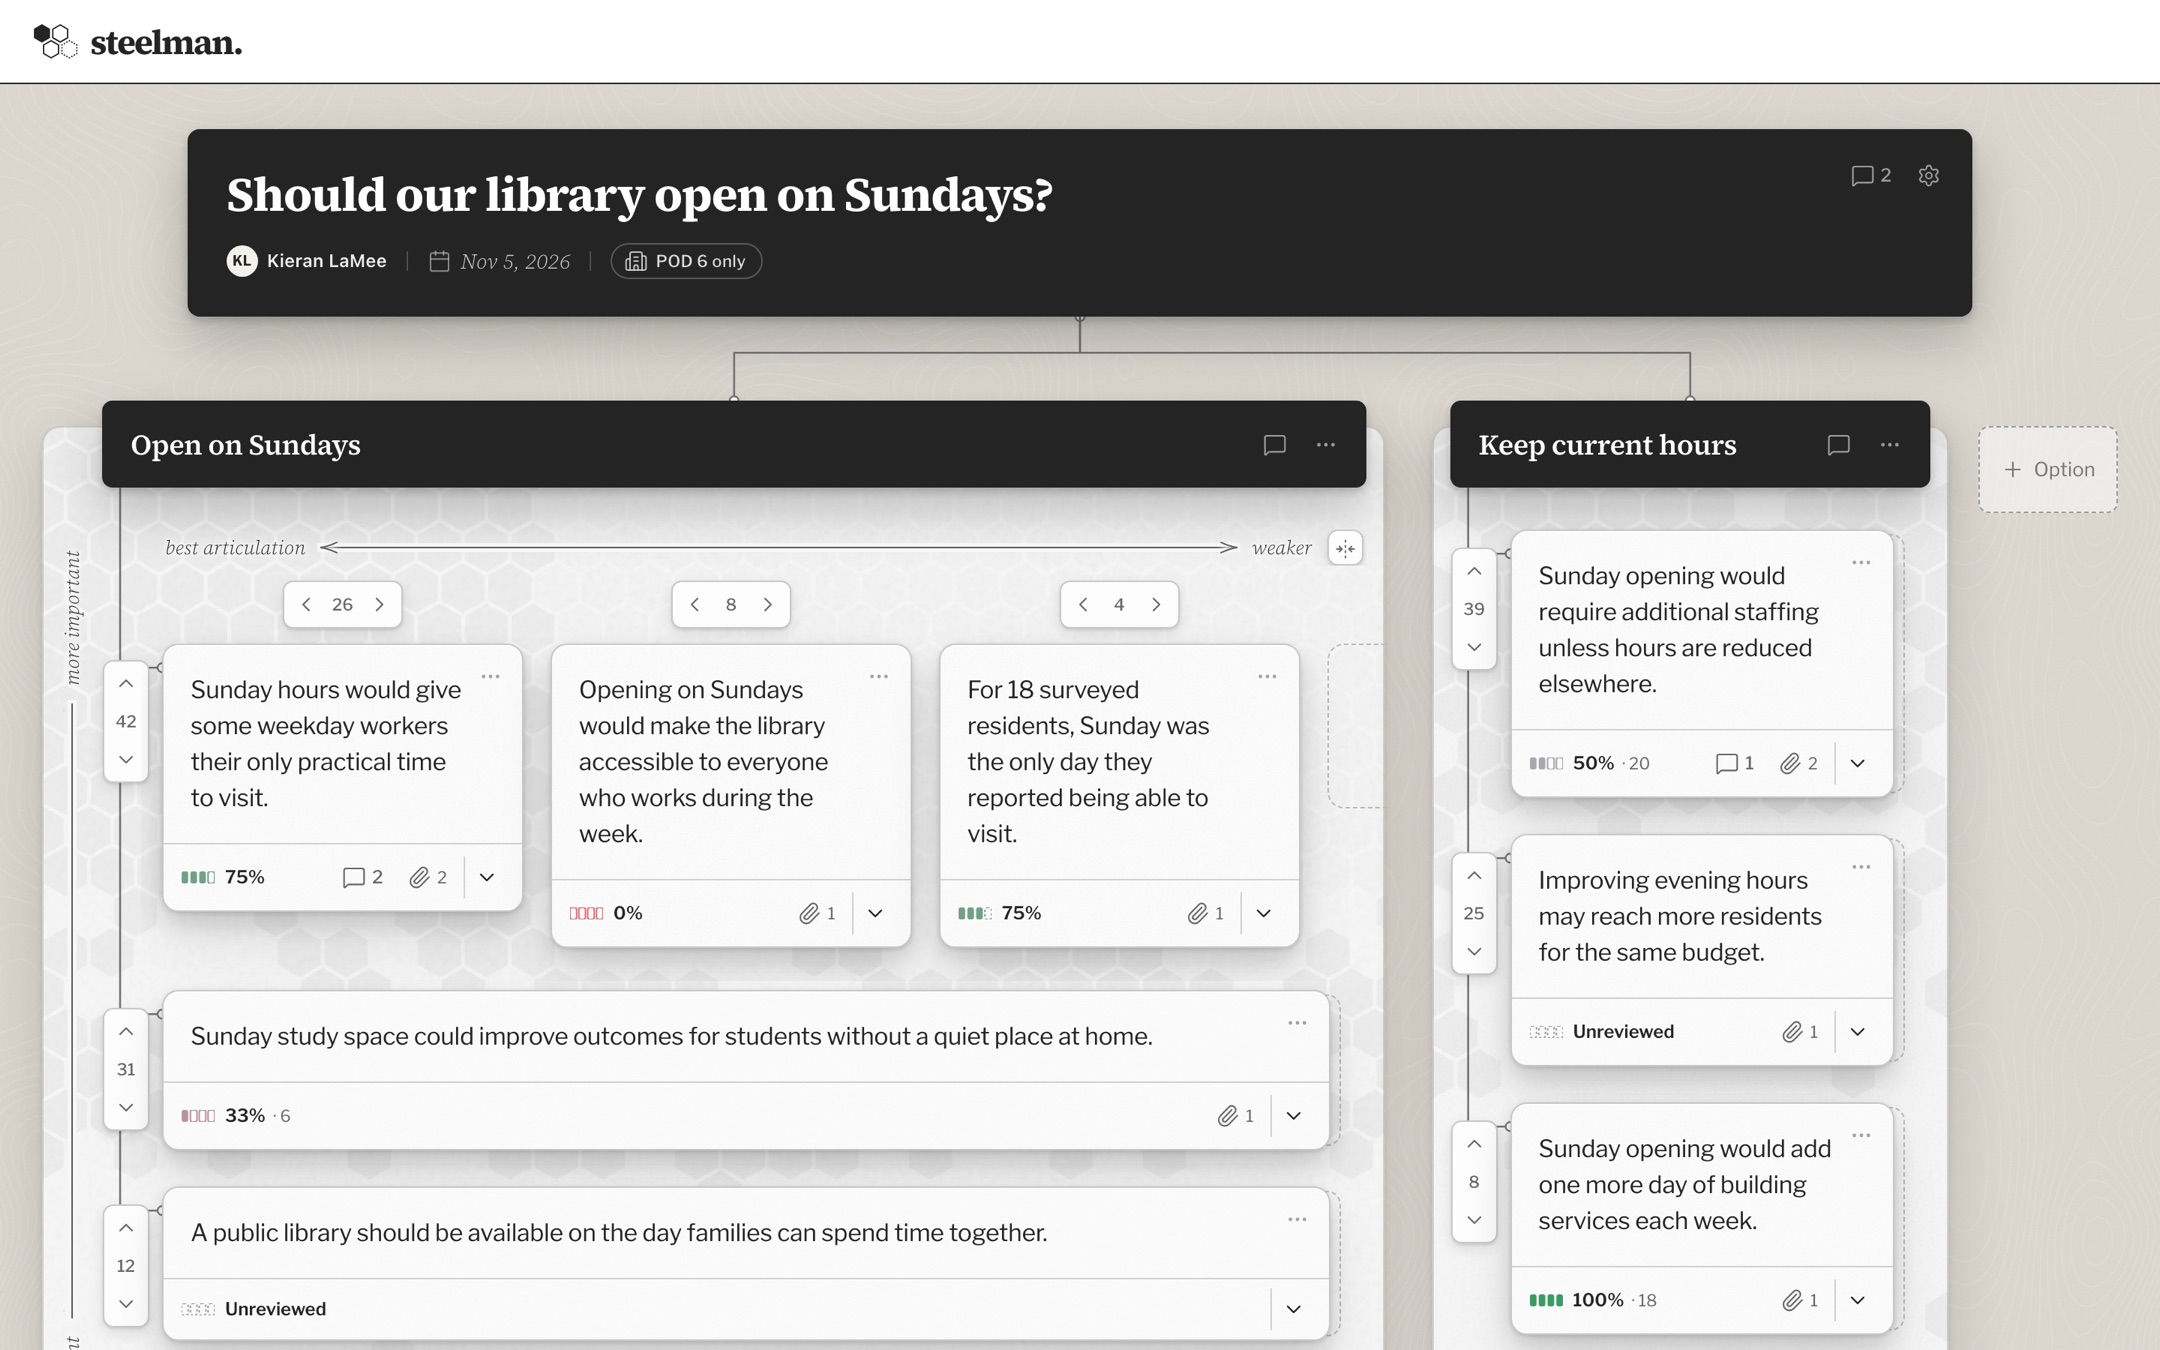
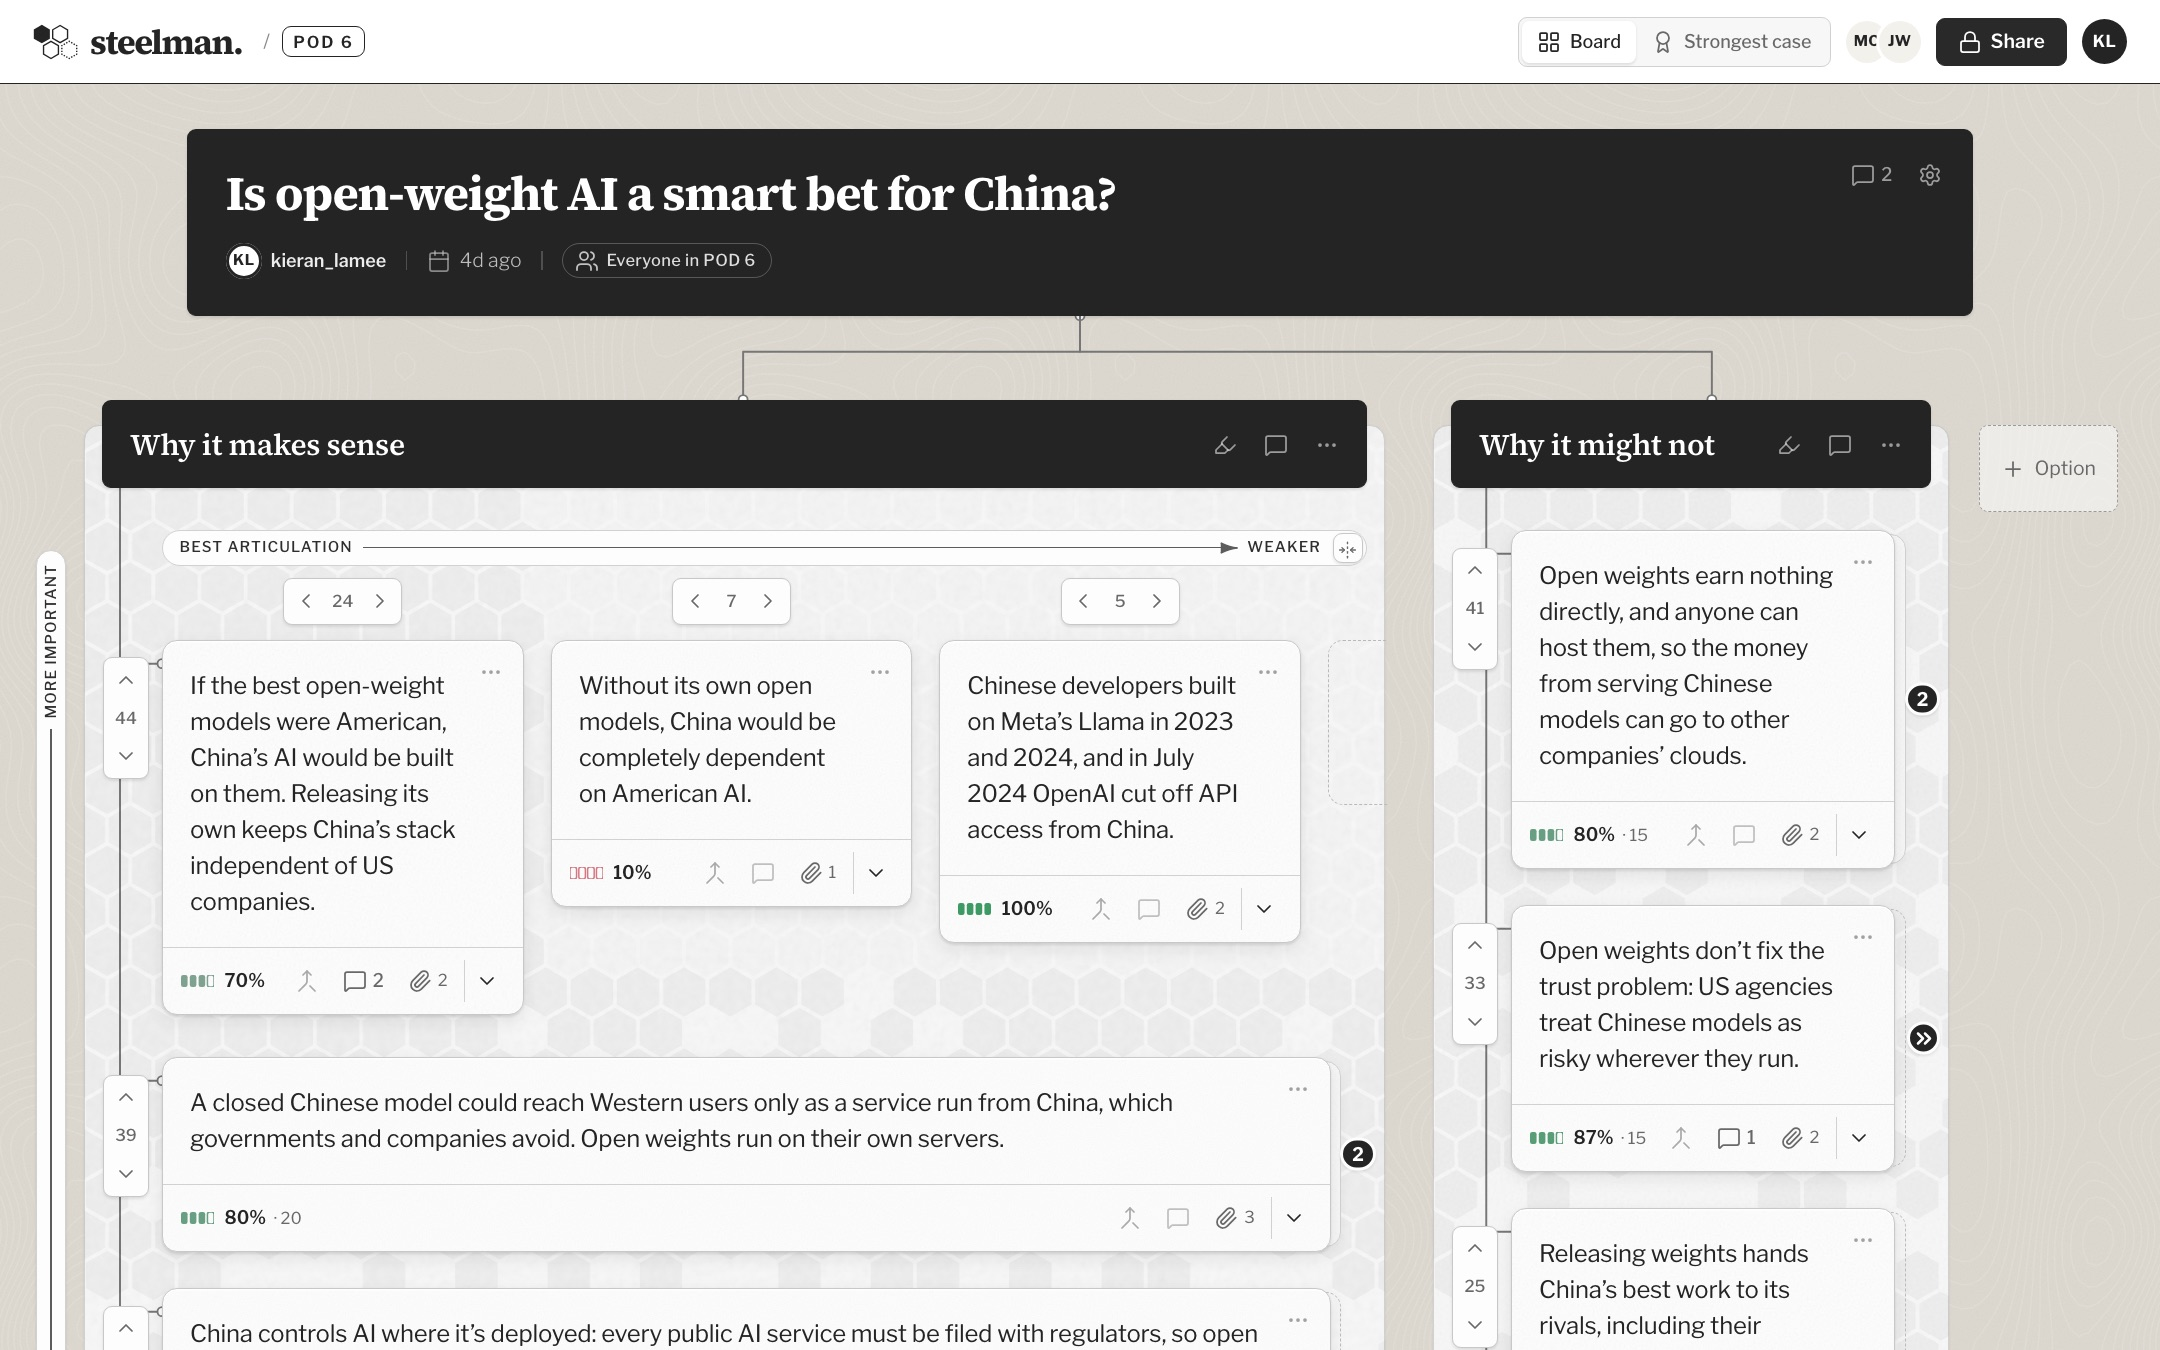
Refresh specimen and Product Page screenshot for the open-weights example
- Design specimen: type samples, version-count samples, AI-contribution study,
  and the board study now use the open-weights question and claims.
- Product Page: new prototype-board.jpg (2160 x 1350) showing the
  open-weights board with its first argument unfolded; updated alt text.

diff --git a/docs/design/index.html b/docs/design/index.html
@@ -100,9 +100,9 @@
 
       <section class="spec" aria-labelledby="type-title">
         <div class="spec-head"><h2 id="type-title">Type</h2><span>Source Serif 4 · Libre Franklin</span></div>
-        <div class="type-sample"><span class="label">Question · serif 700</span><span style="font:700 32px/1.16 var(--sm-serif); letter-spacing:-.8px">Should our library open on Sundays?</span></div>
-        <div class="type-sample"><span class="label">Option · sans 600</span><span style="font-size:17px; font-weight:600; letter-spacing:-.3px">Open on Sundays</span></div>
-        <div class="type-sample"><span class="label">Claim · sans 400</span><span class="sm-claim">Sunday hours would give some weekday workers their only practical time to visit.</span></div>
+        <div class="type-sample"><span class="label">Question · serif 700</span><span style="font:700 32px/1.16 var(--sm-serif); letter-spacing:-.8px">Is open-weight AI a smart bet for China?</span></div>
+        <div class="type-sample"><span class="label">Option · sans 600</span><span style="font-size:17px; font-weight:600; letter-spacing:-.3px">Why it makes sense</span></div>
+        <div class="type-sample"><span class="label">Claim · sans 400</span><span class="sm-claim">If the best open-weight models were American, China’s AI would be built on them. Releasing its own keeps China’s stack independent of US companies.</span></div>
         <div class="type-sample"><span class="label">Axis · serif 300 italic</span><span class="sm-axis" style="justify-content:flex-start"><span class="sm-axis-label">best articulation</span></span></div>
         <div class="type-sample"><span class="label">Meta · sans 11</span><span style="font-size:11px; color:var(--sm-muted)">75% · 32 assessments</span></div>
       </section>
@@ -214,9 +214,9 @@
       {pct: 100, n: 18, label: '100%'}, {pct: 75, n: 4, label: 'Few assessments'}, {n: 0, label: 'Unreviewed'}
     ].map(c => `<div class="item"><span class="label">${c.label}</span>${cred(c)}</div>`).join('');
     document.getElementById('card-row').innerHTML = [
-      ['One version', 'A public library should be available on the day families can spend time together.', {n: 0}, 0, 0],
-      ['Two versions', 'Sunday study space could improve outcomes for students without a quiet place at home.', {pct: 33, n: 6}, 1, 1],
-      ['Three or more', 'Sunday hours would give some weekday workers their only practical time to visit.', {pct: 75, n: 32}, 3, 2]
+      ['One version', 'Open release has made Chinese models among the most built-on in the world, which gives China influence over AI tools and norms.', {pct: 58, n: 12}, 0, 0],
+      ['Two versions', 'A closed Chinese model could reach Western users only as a service run from China, which governments and companies avoid. Open weights run on their own servers.', {pct: 80, n: 20}, 1, 1],
+      ['Three or more', 'If the best open-weight models were American, China’s AI would be built on them. Releasing its own keeps China’s stack independent of US companies.', {pct: 70, n: 20}, 3, 2]
     ].map(([label, claim, c, edges, sources]) => `<div class="item"><span class="label">${label}</span>${card(claim, c, edges, sources)}</div>`).join('');
 
     // Credibility icon options.
@@ -246,20 +246,20 @@
 
     // AI contribution study.
     document.getElementById('ai-row').innerHTML = `
-      <div class="item"><span class="label">Suggested version</span><div class="sm-card-wrap demo-card" style="padding-right:0"><article class="sm-card ai-card"><span class="ai-tag">${icon('sparkle')}Suggested</span><div class="sm-claim-button" style="padding-top:10px"><span class="sm-claim">Sunday hours would give some weekday workers, about one in five survey respondents, their only practical time to visit.</span></div><div class="sm-card-meta"><span class="sm-cred"><span class="sm-evidence-symbol sm-unreviewed">${icon('files')}<span class="sm-stamp">${icon('circle-help')}</span></span><span class="sm-percentage">Unreviewed</span></span><div class="sm-card-tools"><span class="sm-source-button">${icon('x')}</span><span class="sm-source-button" style="color:var(--sm-ai-ink)">${icon('check')}</span></div></div></article></div></div>
-      <div class="item" style="max-width:420px"><span class="label">AI-written phrase inside human text</span><div class="sm-card"><div class="sm-claim-button"><span class="sm-claim">Opening on Sundays would help <span class="ai-mark">the roughly 22% of surveyed residents</span> who said Sunday was their only option.</span></div></div></div>`;
+      <div class="item"><span class="label">Suggested version</span><div class="sm-card-wrap demo-card" style="padding-right:0"><article class="sm-card ai-card"><span class="ai-tag">${icon('sparkle')}Suggested</span><div class="sm-claim-button" style="padding-top:10px"><span class="sm-claim">Open weights let Western companies run Chinese models on their own servers, the main thing regulators objected to in DeepSeek’s app.</span></div><div class="sm-card-meta"><span class="sm-cred"><span class="sm-evidence-symbol sm-unreviewed">${icon('files')}<span class="sm-stamp">${icon('circle-help')}</span></span><span class="sm-percentage">Unreviewed</span></span><div class="sm-card-tools"><span class="sm-source-button">${icon('x')}</span><span class="sm-source-button" style="color:var(--sm-ai-ink)">${icon('check')}</span></div></div></article></div></div>
+      <div class="item" style="max-width:420px"><span class="label">AI-written phrase inside human text</span><div class="sm-card"><div class="sm-claim-button"><span class="sm-claim">Open weights let Western companies use Chinese models <span class="ai-mark">without sending their data to servers in China</span>, which is what regulators objected to.</span></div></div></div>`;
 
     // Board study: one hex grid per column. Size = importance (per row), darkness = articulation (per version).
     const ideas = {
       open: [
-        {imp: 42, versions: [['Sunday hours would give some weekday workers their only practical time to visit.', 26, {pct: 75, n: 32}], ['Opening on Sundays would make the library accessible to everyone who works during the week.', 8, {pct: 0, n: 8}], ['For 18 surveyed residents, Sunday was the only day they reported being able to visit.', 4, {pct: 75, n: 4}]]},
-        {imp: 31, versions: [['Sunday study space could improve outcomes for students without a quiet place at home.', 12, {pct: 33, n: 6}]]},
-        {imp: 12, versions: [['A public library should be available on the day families can spend time together.', 7, {n: 0}]]}
+        {imp: 44, versions: [['If the best open-weight models were American, China’s AI would be built on them. Releasing its own keeps China’s stack independent of US companies.', 24, {pct: 70, n: 20}], ['Without its own open models, China would be completely dependent on American AI.', 7, {pct: 10, n: 10}], ['Chinese developers built on Meta’s Llama in 2023 and 2024, and in July 2024 OpenAI cut off API access from China.', 5, {pct: 100, n: 4}]]},
+        {imp: 39, versions: [['A closed Chinese model could reach Western users only as a service run from China, which governments and companies avoid. Open weights run on their own servers.', 19, {pct: 80, n: 20}]]},
+        {imp: 30, versions: [['China controls AI where it’s deployed: every public AI service must be filed with regulators, so open weights cost it little control at home.', 10, {pct: 88, n: 17}]]}
       ],
       keep: [
-        {imp: 39, versions: [['Sunday opening would require additional staffing unless hours are reduced elsewhere.', 21, {pct: 50, n: 20}]]},
-        {imp: 25, versions: [['Improving evening hours may reach more residents for the same budget.', 5, {n: 0}]]},
-        {imp: 8, versions: [['Sunday opening would add one more day of building services each week.', 9, {pct: 100, n: 18}]]}
+        {imp: 41, versions: [['Open weights earn nothing directly, and anyone can host them, so the money from serving Chinese models can go to other companies’ clouds.', 17, {pct: 80, n: 15}]]},
+        {imp: 33, versions: [['Open weights don’t fix the trust problem: US agencies treat Chinese models as risky wherever they run.', 14, {pct: 87, n: 15}]]},
+        {imp: 12, versions: [['The strategy is subsidized and may not last: Beijing could restrict releases once the market consolidates.', 3, {n: 0}]]}
       ]
     };
     const face = (claim, c) => `<article class="sm-card"><div class="sm-claim-button"><span class="sm-claim">${claim}</span></div><div class="sm-card-meta">${cred(c)}<div class="sm-card-tools"><span class="sm-expand">${icon('chevron-down')}</span></div></div></article>`;
@@ -268,9 +268,9 @@
       if (idea.versions.length === 1) return `<section class="sm-idea" data-row="${id}" data-importance="${idea.imp}">${vote('v', 0, idea.imp)}<div class="sm-card-wrap">${stack(0)}<div data-art="${idea.versions[0][1]}">${face(idea.versions[0][0], idea.versions[0][2])}</div></div></section>`;
       return `<section class="sm-idea sm-open" data-row="${id}" data-importance="${idea.imp}"><div class="sm-track-axis">${axis('h', 'best articulation', 'weaker')}</div>${vote('v', 0, idea.imp)}<div class="sm-card-wrap"><div class="sm-track">${idea.versions.map(([claim, art, c]) => `<div data-art="${art}">${face(claim, c)}</div><div class="sm-version-vote">${vote('h', 0, art)}</div>`).join('')}</div></div></section>`;
     };
-    const column = option => `<section class="sm-column" data-option="${option}"><canvas aria-hidden="true"></canvas>${option === 'open' ? `<div class="col-axis">${axis('v', 'more important', 'less important')}</div>` : ''}<div class="sm-column-head"><h2>${option === 'open' ? 'Open on Sundays' : 'Keep current hours'}</h2></div>${ideas[option].map((idea, i) => row(idea, option, i)).join('')}</section>`;
+    const column = option => `<section class="sm-column" data-option="${option}"><canvas aria-hidden="true"></canvas>${option === 'open' ? `<div class="col-axis">${axis('v', 'more important', 'less important')}</div>` : ''}<div class="sm-column-head"><h2>${option === 'open' ? 'Why it makes sense' : 'Why it might not'}</h2></div>${ideas[option].map((idea, i) => row(idea, option, i)).join('')}</section>`;
     const study = document.getElementById('board-study');
-    study.innerHTML = `<header class="sm-head"><h1>Should our library open on Sundays?</h1></header><div class="sm-board" data-open="open">${column('open')}<div aria-hidden="true"></div>${column('keep')}</div>`;
+    study.innerHTML = `<header class="sm-head"><h1>Is open-weight AI a smart bet for China?</h1></header><div class="sm-board" data-open="open">${column('open')}<div aria-hidden="true"></div>${column('keep')}</div>`;
 
     const hexPath = (ctx, cx, cy, r) => { ctx.moveTo(cx + r * Math.cos(Math.PI / 6), cy + r * Math.sin(Math.PI / 6)); for (let k = 1; k <= 6; k++) { const a = Math.PI / 6 + k * Math.PI / 3; ctx.lineTo(cx + r * Math.cos(a), cy + r * Math.sin(a)); } };
     function drawHex() {

diff --git a/docs/index.html b/docs/index.html
@@ -31,7 +31,7 @@
       </section>
 
       <figure class="prototype" id="prototype">
-        <a href="prototype/" aria-label="Open the interactive prototype"><img src="assets/prototype-board.jpg" width="2160" height="1350" alt="Steelman's library debate: a question, two options with their arguments, and one argument unfolded to compare three wordings side by side."></a>
+        <a href="prototype/" aria-label="Open the interactive prototype"><img src="assets/prototype-board.jpg" width="2160" height="1350" alt="Steelman's example debate, “Is open-weight AI a smart bet for China?”: two options with their arguments, and one argument unfolded to compare three wordings side by side."></a>
         <figcaption><span>Working prototype</span><span>Example topic, sources, and votes</span></figcaption>
       </figure>
 

diff --git a/tests/build-1-manual.md b/tests/build-1-manual.md
@@ -459,7 +459,13 @@ The arguments came from desk research (November 10). Why it makes sense: indepen
 | Connector fix | With the first row unfolded and scrolled 214 px sideways, every wire runs from the spine to the row’s edge (none run backwards); before, the wire ran left to the off-screen first card |
 | Browser errors | None |
 
-Not updated: the design specimen (`docs/design/index.html`) and the Product Page screenshot (`docs/assets/prototype-board.jpg`) still show the library example.
+Follow-up the same day: the design specimen and the Product Page screenshot now show the open-weights example.
+
+| Check | Observed result |
+| --- | --- |
+| Specimen | Type samples, version-count samples, the AI-contribution study, and the board study use the open-weights question, options, and claims; no “library” or “Sunday” text remains; both hex canvases draw |
+| Screenshot | New `assets/prototype-board.jpg` (2160 × 1350, 474 KB), captured with headless Chrome at 1440 × 900 @1.5x with reduced motion: the board with the independence argument unfolded into three wordings |
+| Product Page | The new image loads (after a cache refresh) with updated alt text naming the open-weights debate |
 
 ## Limits
 
